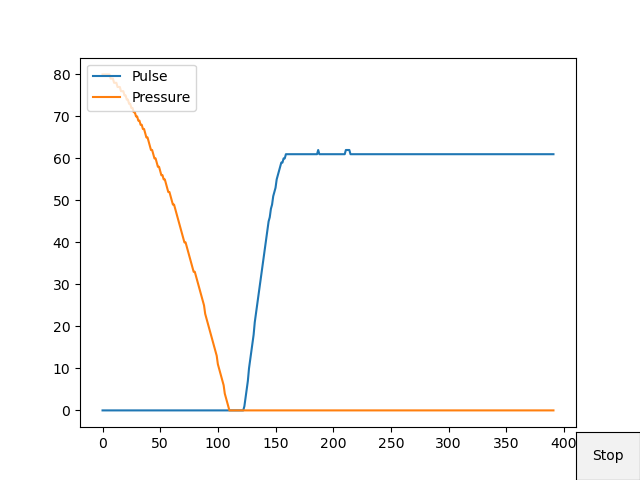
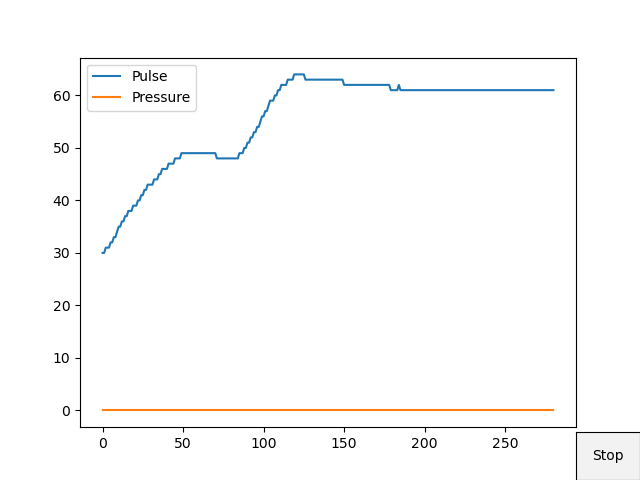
Show Graph Working

diff --git a/test.py b/test.py
@@ -10,6 +10,7 @@ import sys
 import time 
 import serial.tools.list_ports 
 from threading import *
+from matplotlib.widgets import Slider
 from copy import deepcopy
 from matplotlib.ft2font import HORIZONTAL
 import matplotlib.pyplot as plt
@@ -17,8 +18,7 @@ import csv
 import pandas as pd
 from matplotlib.animation import FuncAnimation
 from matplotlib.figure import Figure
-from matplotlib.backends.backend_tkagg import (FigureCanvasTkAgg, 
-NavigationToolbar2Tk)
+from matplotlib.backends.backend_tkagg import FigureCanvasTkAgg
 from matplotlib.widgets import Button as b
 from PIL import Image, ImageTk
 import cv2 
@@ -130,6 +130,12 @@ def arduino_move():
 def start_scan(val):
     print('Scan Started')
 
+    Measure["X"]=[]
+    Measure["Pressure"] =[] 
+    Measure["Pulse"] = []
+    Pressure_graph = [] 
+    Pulse_graph = []
+
     #Set stop flag to false
     global STOP_SCAN
     STOP_SCAN = 0
@@ -148,17 +154,26 @@ def stop_scan(val):
     global STOP_SCAN
     STOP_SCAN = 1
 
-    Measure["X"]=[]
-    Measure["Pressure"] =[] 
-    Measure["Pulse"] = []
-    Pressure_graph = [] 
-    Pulse_graph = []
-
     ani.pause()
-
-    plt.savefig('test1.png')
-    show_figure()
     plt.close()
+
+    figure = plt.Figure(figsize = (6,5), dpi = 100)
+    ax1 = figure.add_subplot(111) 
+    bar1 = FigureCanvasTkAgg(figure, right_frame)
+    bar1.get_tk_widget().place(x = 25, y = 20)
+
+    x = Measure["X"]
+    Pressure = Measure["Pressure"] 
+    Pulse = Measure["Pulse"]
+
+    ax1.plot(x, Pulse, label ='Pulse')
+    ax1.plot(x, Pressure, label ='Pressure')
+
+    bar1.draw()
+    
+    # plt.savefig('test1.png')
+    # show_figure()
+    # plt.close()
 
 
 
@@ -300,11 +315,11 @@ def connect_sensor():
             Left["state"] = "disabled"
             Right["state"] = "disabled"
 
-def show_figure():
-    load= Image.open("test1.png")
-    render = ImageTk.PhotoImage(load)
-    img.configure(image = render)
-    img.image = render
+# def show_figure():
+#     load= Image.open("test1.png")
+#     render = ImageTk.PhotoImage(load)
+#     img.configure(image = render)
+#     img.image = render
 
 def show_frames():
    global is_on
@@ -402,13 +417,23 @@ right_frame = tk.Frame(root, width = 650, height = 700, bg = "grey")
 right_frame.place(x = 350, y = 0)
 
 
-# frame2 = ttk.LabelFrame(root, text='--', width=650, height=500)
-# frame2.place(x=350, y=12)
+# load = Image.open("test1.png")
+# render = ImageTk.PhotoImage(load)
+# img =tk.Label(right_frame, image = render)
+# img.place(x = 4, y = 5)
 
-load = Image.open("test1.png")
-render = ImageTk.PhotoImage(load)
-img =tk.Label(right_frame, image = render)
-img.place(x = 4, y = 5)
+figure = plt.Figure(figsize = (6,5), dpi = 100)
+ax1 = figure.add_subplot(111) 
+bar1 = FigureCanvasTkAgg(figure, right_frame)
+bar1.get_tk_widget().place(x = 25, y = 20)
+
+x = Measure["X"]
+Pressure = Measure["Pressure"] 
+Pulse = Measure["Pulse"]
+
+ax1.plot(x, Pulse, label ='Pulse')
+ax1.plot(x, Pressure, label ='Pressure')
+plt.show()
 
 
 def main(): 

diff --git a/t1.py b/t1.py
@@ -1,0 +1,41 @@
+# Import libraries using import keyword
+import numpy as np
+import matplotlib.pyplot as plt
+from matplotlib.widgets import Slider
+ 
+# Setting Plot and Axis variables as subplots()
+# function returns tuple(fig, ax)
+Plot, Axis = plt.subplots()
+ 
+# Adjust the bottom size according to the
+# requirement of the user
+plt.subplots_adjust(bottom=0.25)
+ 
+# Set the x and y axis to some dummy data
+t = np.arange(0.0, 100.0, 0.1)
+s = np.sin(2*np.pi*t)
+ 
+# plot the x and y using plot function
+l = plt.plot(t, s)
+ 
+# Choose the Slider color
+slider_color = 'White'
+ 
+# Set the axis and slider position in the plot
+axis_position = plt.axes([0.2, 0.1, 0.65, 0.03],
+                         facecolor = slider_color)
+slider_position = Slider(axis_position,
+                         'Pos', 0.1, 90.0)
+ 
+# update() function to change the graph when the
+# slider is in use
+def update(val):
+    pos = slider_position.val
+    Axis.axis([pos, pos+10, -1, 1])
+    Plot.canvas.draw_idle()
+ 
+# update function called using on_changed() function
+slider_position.on_changed(update)
+ 
+# Display the plot
+plt.show()
